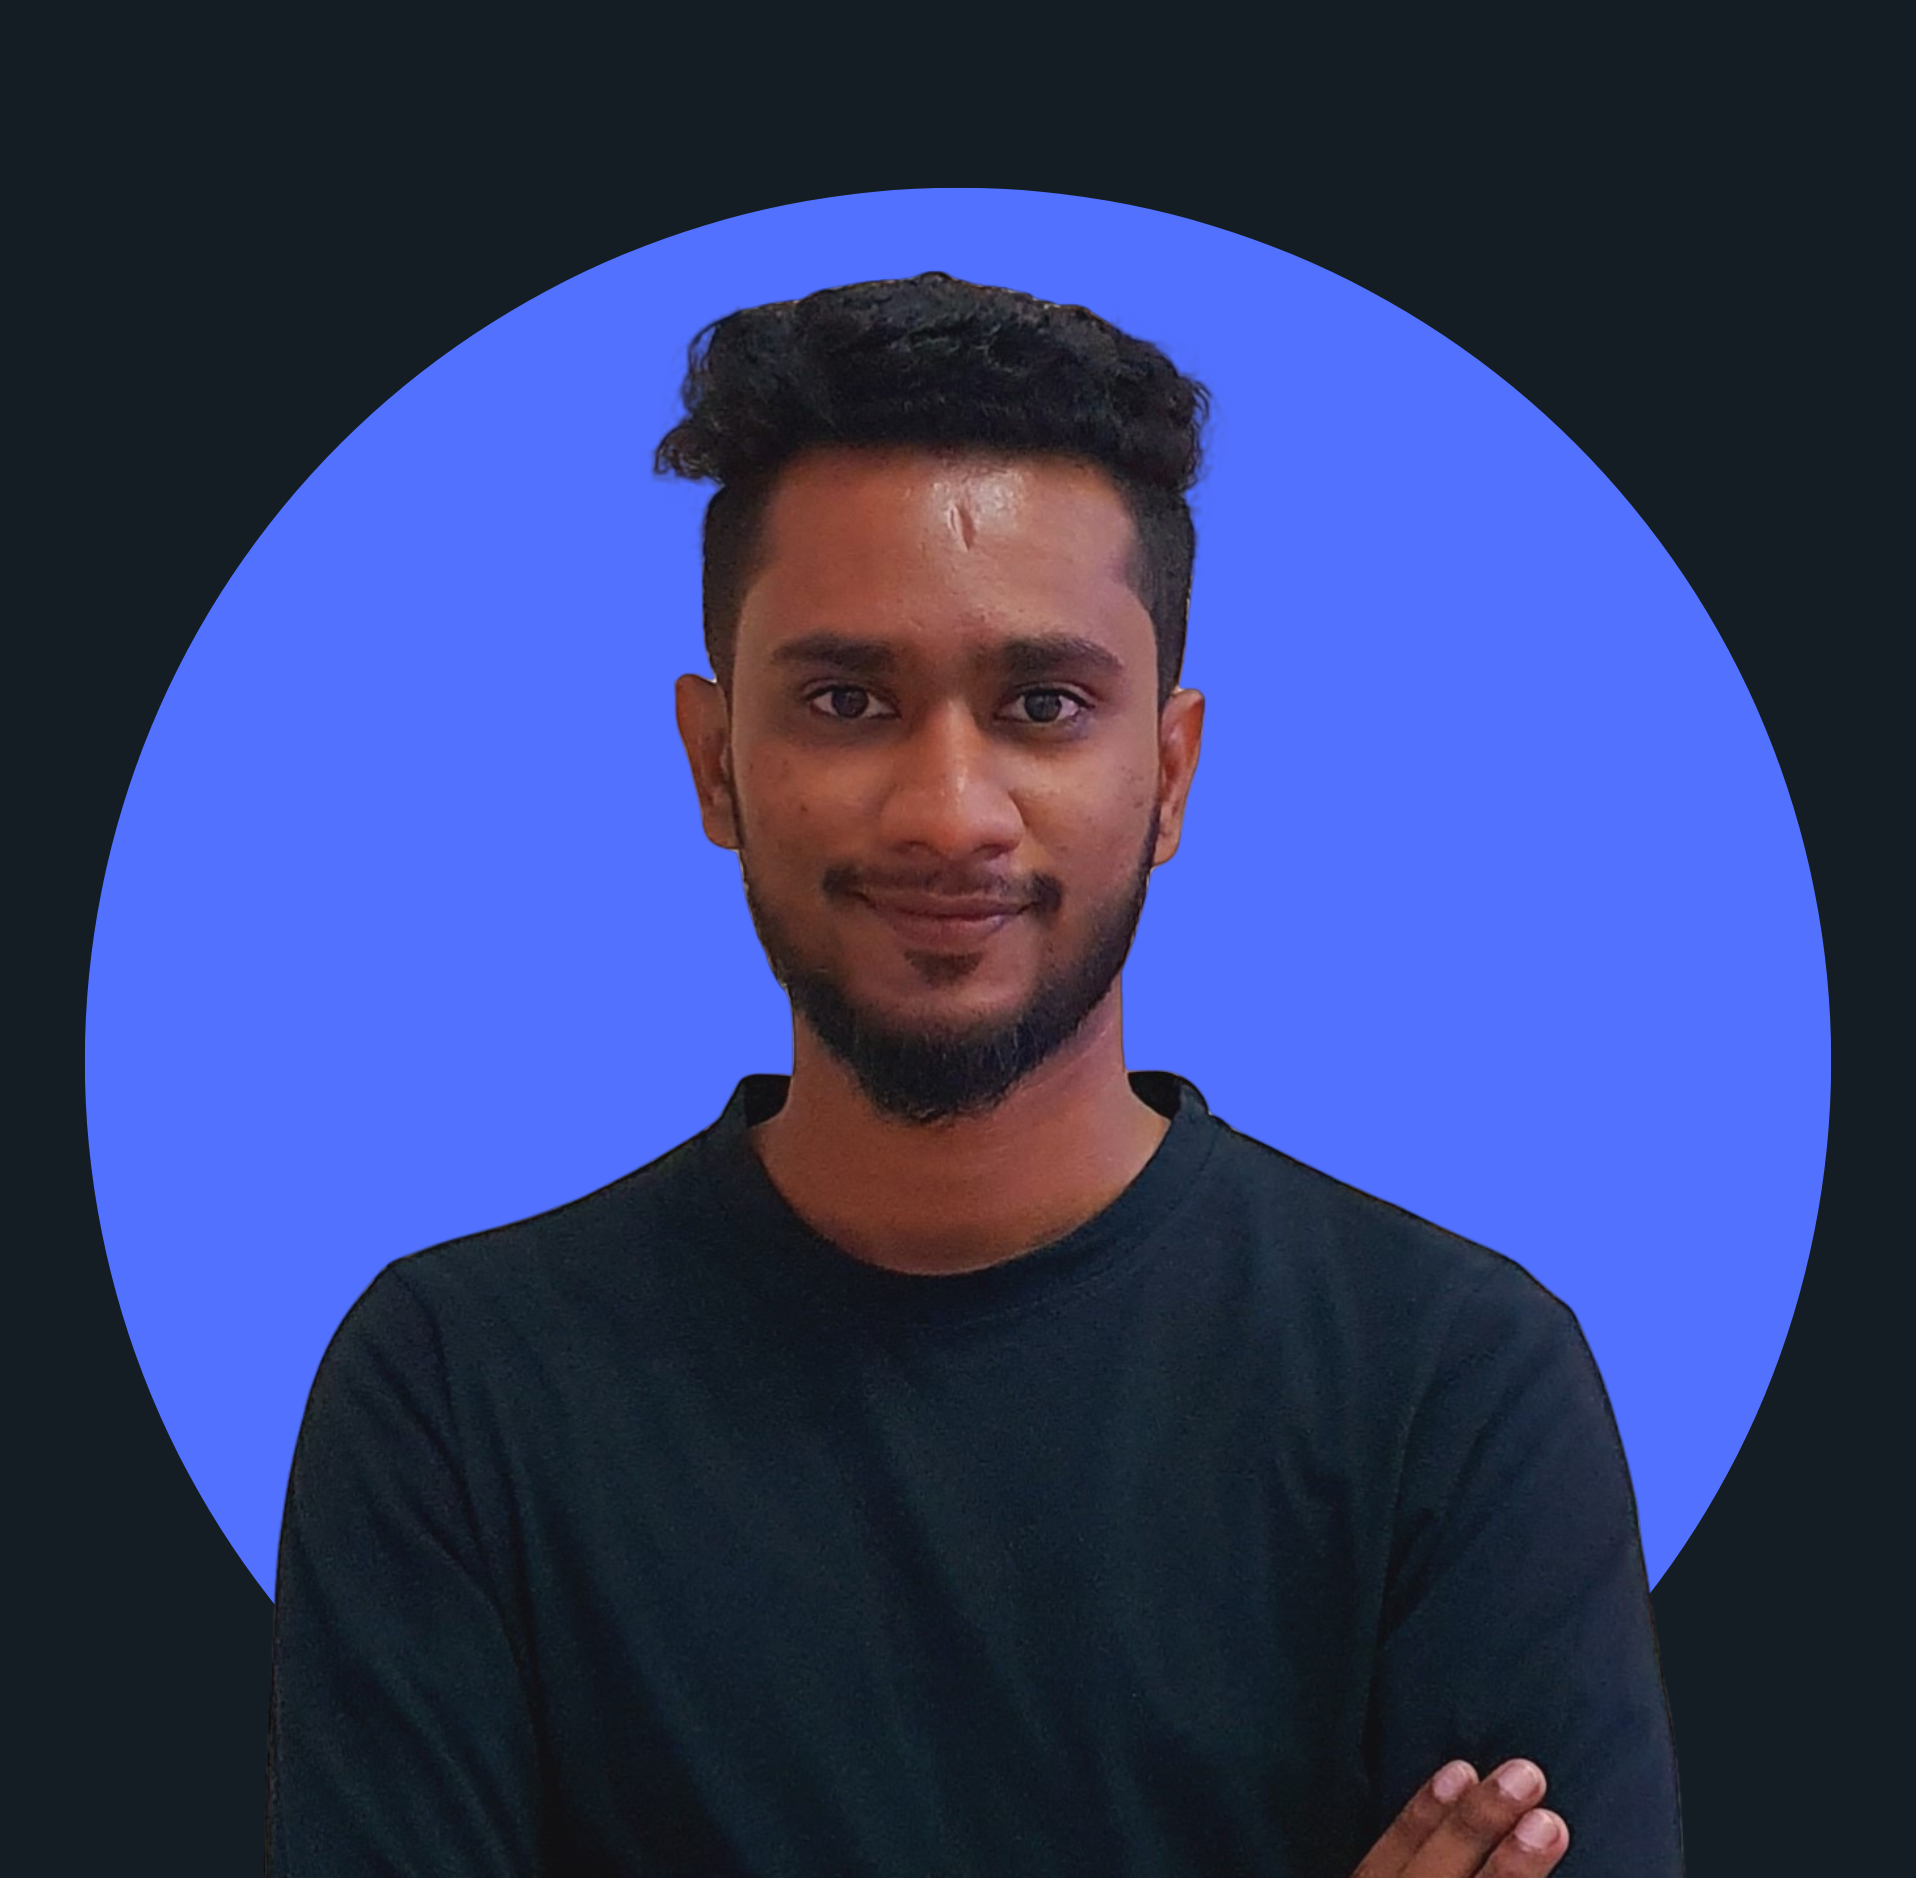
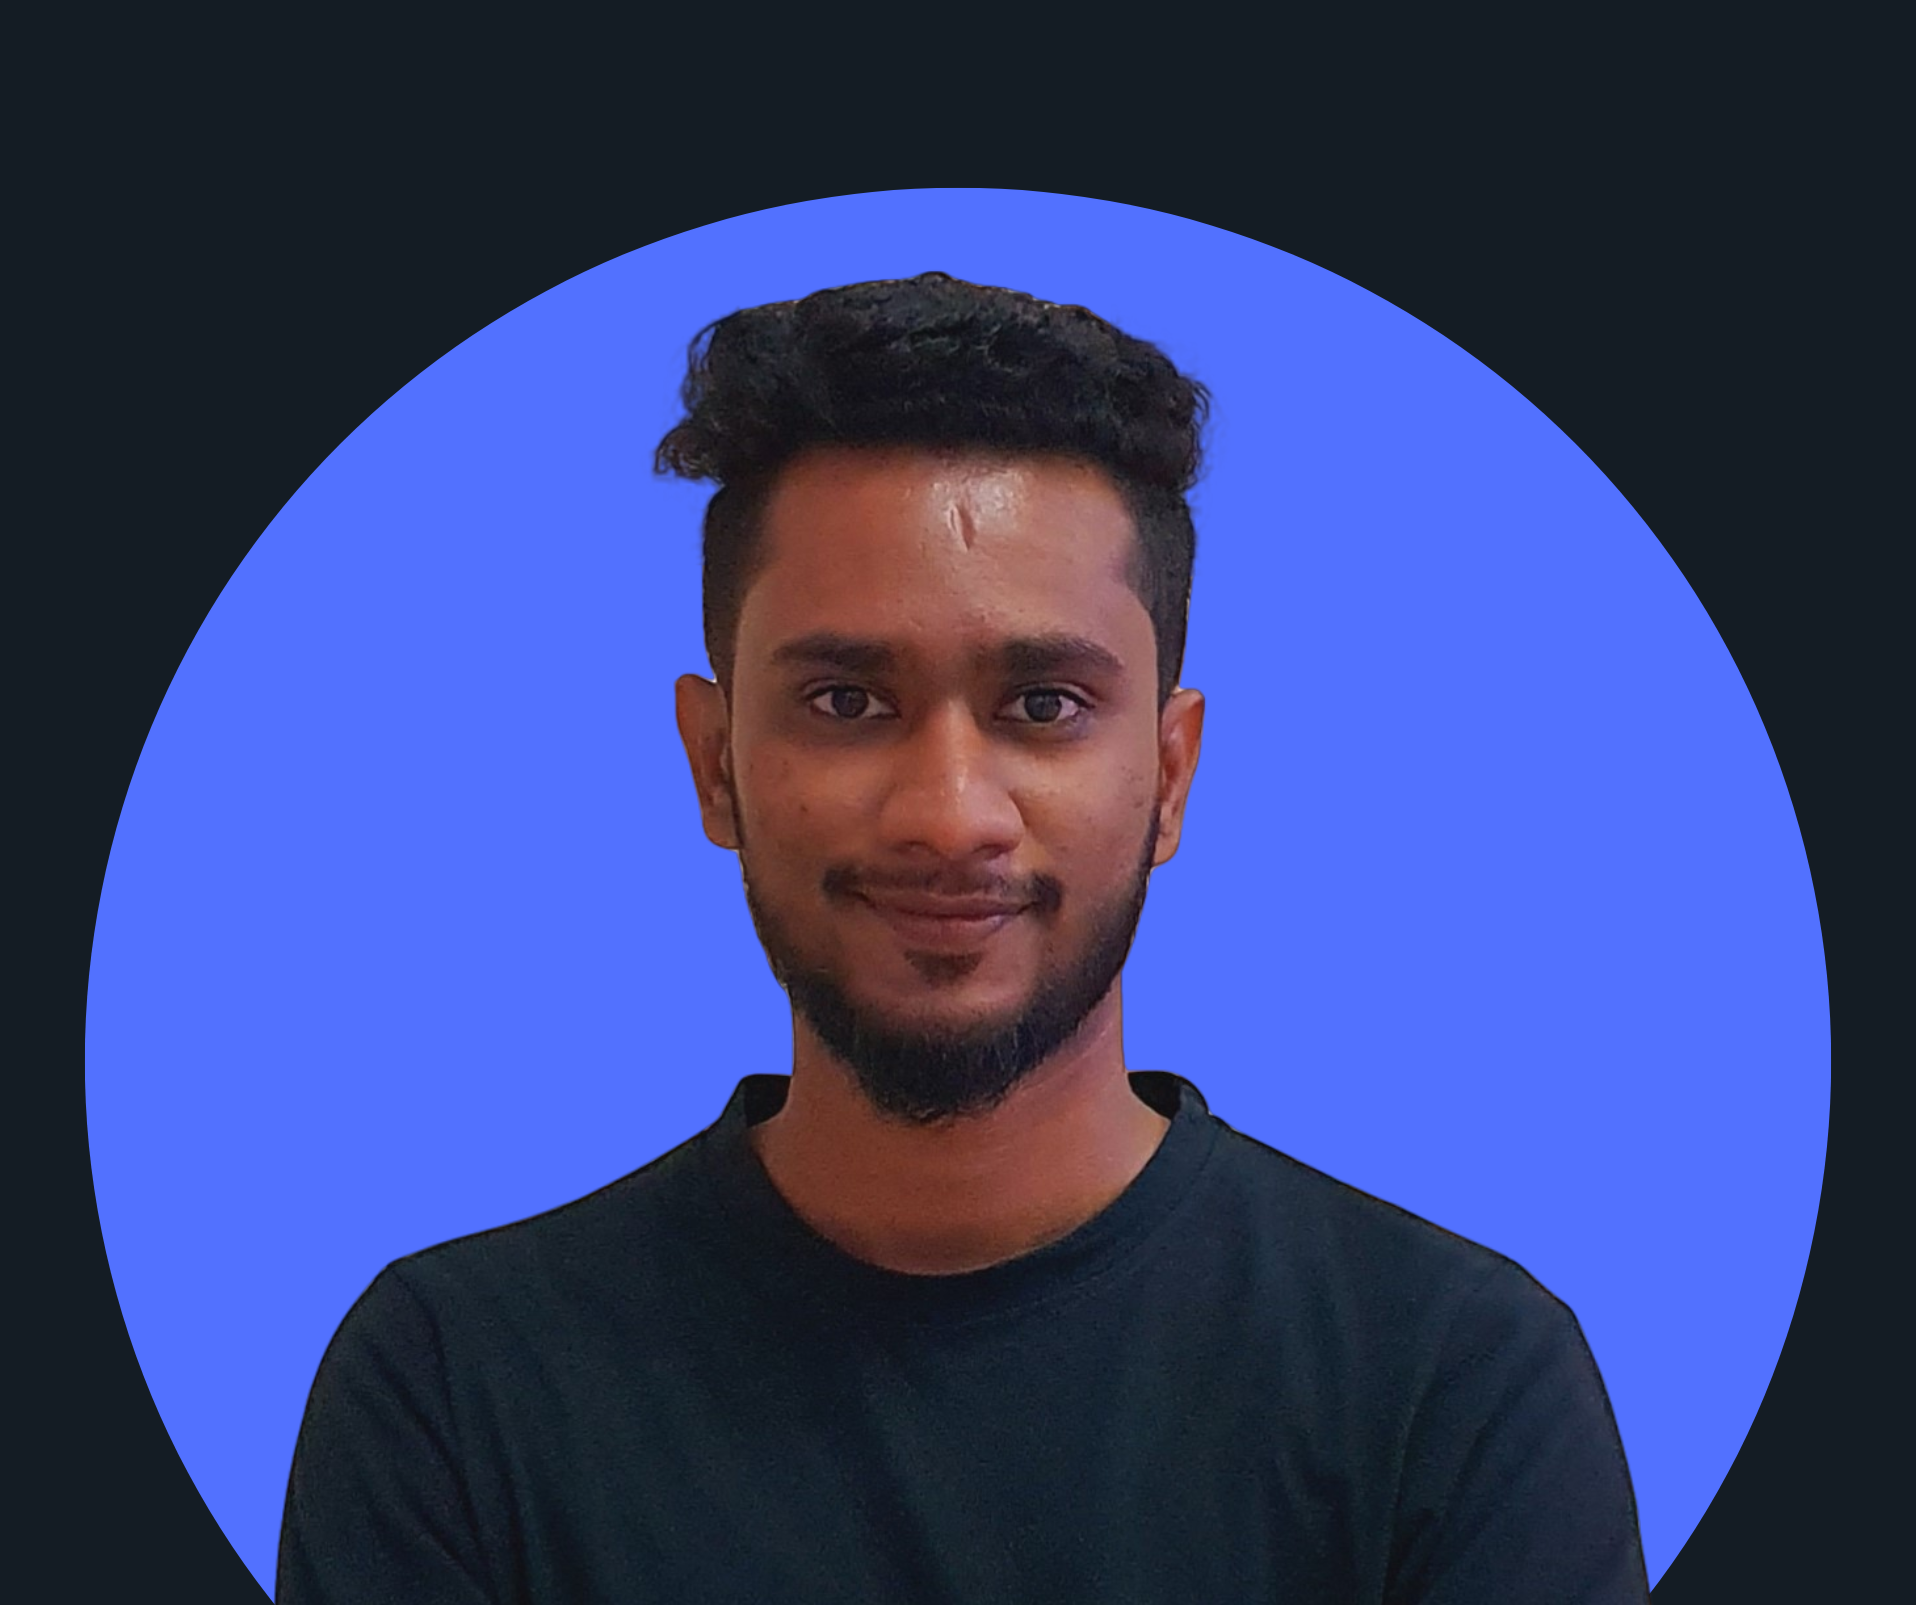
business-card-done

Changed region(s): [[0.0308, 0.0935, 0.9546, 1.0]]

diff --git a/src/index.css b/src/index.css
@@ -2,67 +2,152 @@
 @tailwind components;
 @tailwind utilities;
 
+@import url("https://fonts.googleapis.com/css2?family=Inter:wght@400;500;700&display=swap");
+
+body {
+  background-color: #23252c;
+  display: flex;
+  align-items: center;
+  justify-content: center;
+}
+
+/* ---------------------- */
+/* Typography             */
+/* ---------------------- */
+
+html {
+  font-family: "Inter", sans-serif;
+}
+
+p {
+  font-size: 0.75rem;
+  font-weight: 400;
+  line-height: 150%;
+}
+
+/* ---------------------- */
+/* card            */
+/* ---------------------- */
+
+.card {
+  @apply text-[#dcdcdc]
+      bg-[#1a1b21]
+      rounded-3xl
+      w-[22em]
+      m-[3em]
+      shadow-lg;
+}
+
+.container {
+  @apply p-8;
+}
+
+/* ---------------------- */
+/* Info               */
+/* ---------------------- */
+
 .info {
-    @apply 
-    text-center
+  @apply text-center;
+}
+
+.info--image {
+  @apply block
+  w-[100%]
+  rounded-xl;
 }
 
 .info--fullname {
-    @apply 
-    font-bold 
+  @apply font-bold
     text-4xl 
-    mt-4 p-8
+    mt-4 pt-4;
 }
 
 .info--role {
-    @apply 
-    font-normal 
+  @apply font-normal 
     text-[#f3bf99] 
-    mt-0
+    text-sm
+    mt-0;
 }
 
 .info--link {
-    @apply 
-    text-[#dcdcdc] 
-    no-underline
+  @apply text-[#dcdcdc] 
+    text-sm
+    no-underline;
 }
 
 .info--icon {
-    @apply
-    mr-2
+  @apply mr-2;
 }
 
 .info--buttons {
-    @apply
-    flex
+  @apply flex
     flex-row
     items-center
-    justify-evenly
-    px-8
-    py-0
+    justify-between
+    px-7
+    py-0;
 }
 
+/* ---------------------- */
+/* Buttons                */
+/* ---------------------- */
+
 .btn {
-    @apply 
-    w-[115px] 
+  @apply w-[115px] 
     text-base 
-    font-medium 
+    font-medium
+    mt-4
     px-2 py-3 
     shadow-xl 
     rounded-md 
     cursor-pointer
-    hover:brightness-90
+    hover:brightness-90;
 }
 
 .btn--email {
-    @apply
-    bg-[#f5f5f5]
+  @apply bg-[#f5f5f5]
+  text-[#161619];
 }
 
 .btn--linkedin {
-    @apply
-    bg-[#5093e2]
-    
+  @apply bg-[#5093e2];
 }
 
+/* ---------------------- */
+/* About               */
+/* ---------------------- */
 
+.sub {
+  @apply mt-6 ml-4 mr-4;
+}
+
+.sub--head {
+  @apply text-3xl 
+  font-semibold;
+}
+
+.sub--paragraph {
+  @apply text-base
+  mt-2;
+}
+
+/* ---------------------- */
+/* footer             */
+/* ---------------------- */
+
+.footer {
+  @apply flex
+  flex-row
+  justify-evenly
+  items-center
+  mt-1
+  p-4
+  bg-[#161619]
+  rounded-b-3xl;
+}
+
+.footer--icon {
+  @apply size-8
+  text-[#918e9b]
+  hover:brightness-125;
+}

diff --git a/src/components/Info.jsx b/src/components/Info.jsx
@@ -1,35 +1,38 @@
 import React from "react";
-import Profile from "../assets/Profile_Pic.png"
+import Profile from "../assets/Profile_Pic.png";
 import { FontAwesomeIcon } from "@fortawesome/react-fontawesome";
 import { faEnvelope } from "@fortawesome/free-regular-svg-icons";
 import { faLinkedin } from "@fortawesome/free-brands-svg-icons";
 
 function Info() {
-    return(
-        <div className="info"> 
-            <img src={Profile} alt="Udeepa Sandakal" />
-            <h1 className="info--fullname">Udeepa Sandakal</h1>
-            <h5 className="info--role">Self Learn Full-Stack Developer</h5>
-            <a className="info--link" href="" target="blank">KeeDev.io</a>
-        
-            <div className="info--buttons">
-                <address>
-                    <a href="udeepasd@gmail.com">
-                        <button className="btn btn--email">
-                            <FontAwesomeIcon icon={faEnvelope} className="info--icon"/>Email
-                        </button> 
-                    </a>    
-                </address>
+  return (
+    <div className="info">
+      <img src={Profile} alt="Udeepa Sandakal" className="info--image" />
+      <h1 className="info--fullname">Udeepa Sandakal</h1>
+      <h5 className="info--role">Self Learn Full-Stack Developer</h5>
+      <a className="info--link" href="" target="blank">
+        KeeDev.io
+      </a>
 
-                <a href="https://lk.linkedin.com/in/udeepa-sandakal" target="blank">
-                    <button className="btn btn--linkedin">
-                        <FontAwesomeIcon icon={faLinkedin} className="info--icon"/>Linkedin
-                    </button>
-                </a>
+      <div className="info--buttons">
+        <address>
+          <a href="udeepasd@gmail.com">
+            <button className="btn btn--email">
+              <FontAwesomeIcon icon={faEnvelope} className="info--icon" />
+              Email
+            </button>
+          </a>
+        </address>
 
-            </div>        
-        </div>
-    )
+        <a href="https://lk.linkedin.com/in/udeepa-sandakal" target="blank">
+          <button className="btn btn--linkedin">
+            <FontAwesomeIcon icon={faLinkedin} className="info--icon" />
+            Linkedin
+          </button>
+        </a>
+      </div>
+    </div>
+  );
 }
 
-export default Info
+export default Info;

diff --git a/src/components/Footer.jsx b/src/components/Footer.jsx
@@ -1,7 +1,20 @@
+import { faGithub, faLinkedin } from "@fortawesome/free-brands-svg-icons";
+import { faLinkedinIn } from "@fortawesome/free-brands-svg-icons/faLinkedinIn";
+import { FontAwesomeIcon } from "@fortawesome/react-fontawesome";
 import React from "react";
 
 function Footer() {
+  return (
+    <div className="footer">
+      <a href="https://github.com/" target="_blank">
+        <FontAwesomeIcon icon={faGithub} className="footer--icon" />
+      </a>
 
+      <a href="https://lk.linkedin.com/in/udeepa-sandakal" target="_blank">
+        <FontAwesomeIcon icon={faLinkedinIn} className="footer--icon" />
+      </a>
+    </div>
+  );
 }
 
-export default Footer
+export default Footer;

diff --git a/src/App.jsx b/src/App.jsx
@@ -1,13 +1,20 @@
-import React from "react"
-import Info from "./components/Info"
+import React from "react";
+import Info from "./components/Info";
+import About from "./components/About";
+import Interest from "./components/Interest";
+import Footer from "./components/Footer";
 
 function App() {
- 
   return (
-    <>
+    <div className="card">
       <Info />
-    </>
-  )
+      <div className="container">
+        <About />
+        <Interest />
+      </div>
+      <Footer />
+    </div>
+  );
 }
 
-export default App
+export default App;

diff --git a/src/components/About.jsx b/src/components/About.jsx
@@ -1,7 +1,16 @@
 import React from "react";
 
 function About() {
-
+  return (
+    <div className="sub">
+      <h3 className="sub--head">About</h3>
+      <p className="sub--paragraph">
+        I am a frontend developer with a particular interest in making things
+        simple and automating daily tasks. I try to keep up with security and
+        best practices, and am always looking for new things to learn.
+      </p>
+    </div>
+  );
 }
 
-export default About
+export default About;

diff --git a/src/components/Interest.jsx b/src/components/Interest.jsx
@@ -1,7 +1,15 @@
 import React from "react";
 
 function Interest() {
-
+  return (
+    <div className="sub">
+      <h3 className="sub--head">Interest</h3>
+      <p className="sub--paragraph">
+        Food expert. Music scholar. Reader. Internet fanatic. Bacon buff.
+        Entrepreneur. Travel geek. Pop culture ninja. Coffee fanatic.
+      </p>
+    </div>
+  );
 }
 
-export default Interest
+export default Interest;
